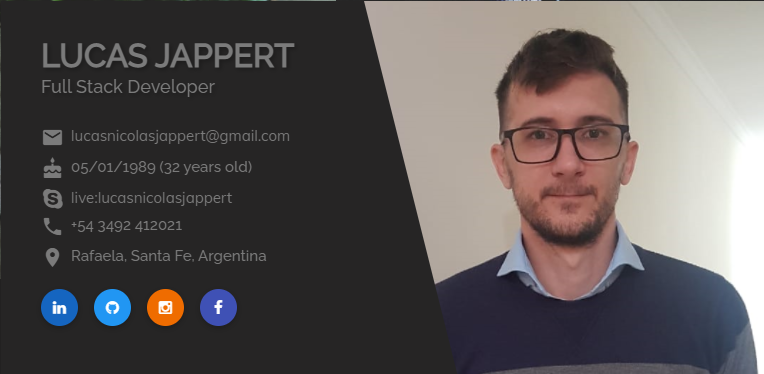
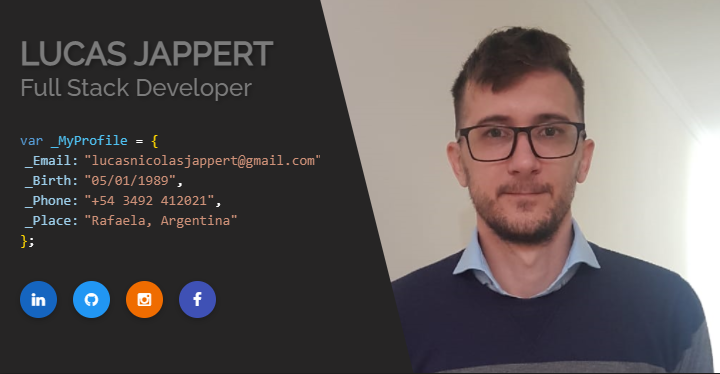
ogImage, description actualiados

diff --git a/index.html b/index.html
@@ -7,11 +7,11 @@
     <meta http-equiv="X-UA-Compatible" content="IE=edge">
     <meta name="viewport" content="width=device-width, initial-scale=1, maximum-scale=1">
     <meta name="author" content="Lucas Jappert">
-    <meta name="description" content="Hello there! I'm Lucas and welcome to my profile! Here you will be able to know my skills and knowledge" />
-    <meta name="keywords" content="Javascript, HTML, CSS, VueJS">
+    <meta name="description" content="Hello there! Welcome to my profile, I'm a full stack developer, and lately i'm so much passionate about vuejs! Here you will be able to know my skills and knowledge." />
+    <meta name="keywords" content="Javascript, HTML, CSS, VueJS, frontend">
 
 
-    <title>Lucas Jappert | Frontend Developer</title>
+    <title>Lucas Jappert | Full Stack Developer</title>
     <link rel="icon" href="images/site/icon.png">
 
     <!--APPLE TOUCH ICON-->
@@ -48,9 +48,9 @@
     <link href="stylesheets/style_dark_dark.css" id="switch_style" rel="stylesheet">
 
     <meta property="og:type" content="website" />
-    <meta property="og:title" content="Lucas Jappert | Frontend Developer" />
-    <meta property="og:description" content="Hello there! I'm Lucas and welcome to my profile! Here you will be able to know my skills and knowledge" />
-    <meta property="og:image" content="https://raw.githubusercontent.com/LucasJappert/MyProfile/master/images/backgrounds/ogImage.PNG?v=1" />
+    <meta property="og:title" content="Lucas Jappert | Full Stack Developer" />
+    <meta property="og:description" content="Hello there! Welcome to my profile, I'm a full stack developer, and lately i'm so much passionate about vuejs! Here you will be able to know my skills and knowledge." />
+    <meta property="og:image" content="https://raw.githubusercontent.com/LucasJappert/MyProfile/master/images/backgrounds/ogImage.PNG?v=2" />
 
     <!-- Global site tag (gtag.js) - Google Analytics -->
     <script async src="https://www.googletagmanager.com/gtag/js?id=G-CHH7F3E3P7"></script>
@@ -292,7 +292,7 @@
                             <div class="CajaSkill fLeft">
                                 <!-- Front -->
                                 <div class="skills-title">
-                                    <h6 class="text-center">Front</h6>
+                                    <h6 class="text-center">Frontent</h6>
                                 </div>
                                 <div class="skillbar" data-percent="100%">
                                     <div class="skillbar-title"><span>HTML5</span></div>
